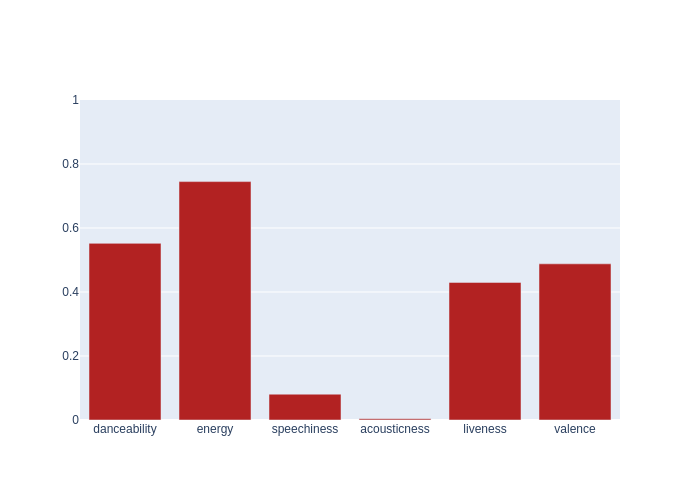
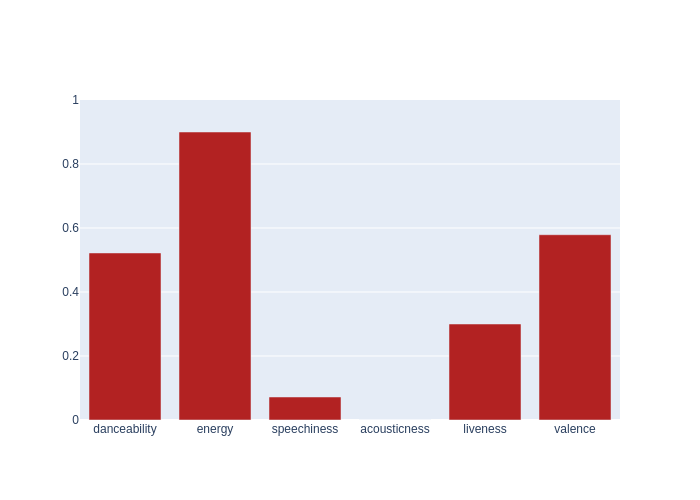
Automated README update

diff --git a/README.md b/README.md
@@ -4,7 +4,7 @@ Automated music metrics for fun, updated hourly.
 
 ## Spotify
 
-- currently listening to **Zella Day - Hypnotic - Vanic Remix**
+- currently listening to **YUNGBLUD - acting like that (feat. Machine Gun Kelly)**
 
 - **3099** liked songs
 - **32** playlists
